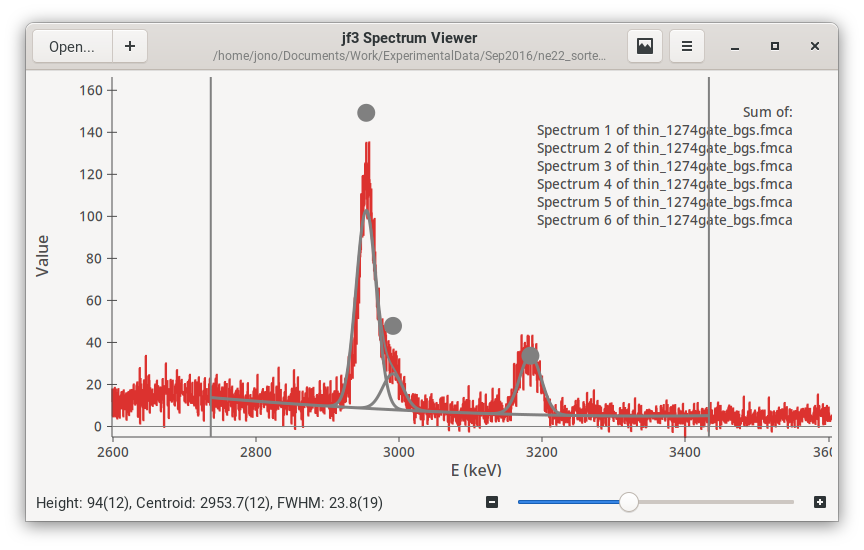
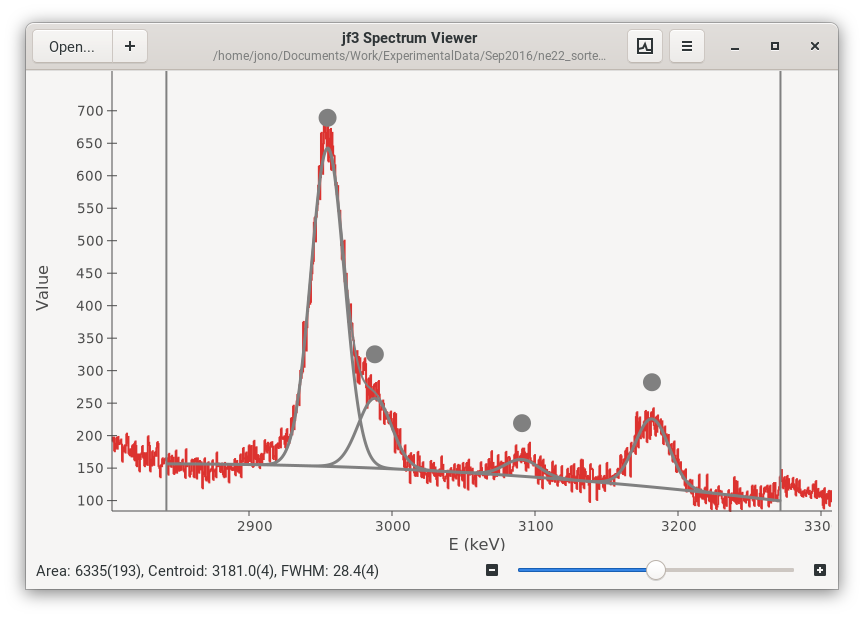
Update jf3 screenshot.

diff --git a/jf3.html b/jf3.html
@@ -31,8 +31,8 @@ jf3
 
 
 <p align="justify">
-A (1D) spectrum viewer app, with functionality inspired by the <i>gf3</i> program for gamma-ray spectroscopy in the <a href="https://radware.phy.ornl.gov/">RadWare</a> software package.<br><br>
-NOTE: This is still in the early stages - spectra are drawing correctly, rudimentary fitting support is in but it is not science ready yet.
+A (1D) spectrum viewer and fitter app, with functionality inspired by the <i>gf3</i> program for gamma-ray spectroscopy in the <a href="https://radware.phy.ornl.gov/">RadWare</a> software package.<br><br>
+<b>DISCLAIMER:</b> This is a work in progress and under active development - results are not guaranteed.
 </p>
 
 <h3>Features</h3>
@@ -60,14 +60,17 @@ Conversion codes for some of these data formats are available in the <a href="ht
     <li>Show spectra in a "stacked" view (tiled vertically with a common x-axis).</li>
     </ul> 
 <li>Zoom and pan using the mouse (mouse wheel, click and drag).</li>
-<li></li>Display in linear or logarithmic scale on the y-axis.</li>
+<li>Display in linear or logarithmic scale on the y-axis.</li>
+<li>Rescale spectra, to perform operations such as background subtraction.</li>
 <li>Rebin spectra, with results displayed in real time.</li>
 </ul>
 
 <h4>Peak fitting</h4>
 
 <ul>
-<li>Fit multiple Gaussian peak shapes on quadratic background (WIP).</li>
+<li>Fit multiple Gaussian peak shapes on quadratic background (iterative least-squares fitter).</li>
+<li>Relative peak widths may be fixed (recommended for gamma-ray spectroscopy) or allowed to freely vary.</li>
+<li>Weight by the data (taking background subtraction into account) or by the fit function.  Or don't weight the fit at all.</li>
 </ul> 
 
 <h4>Cool user interface</h4>
